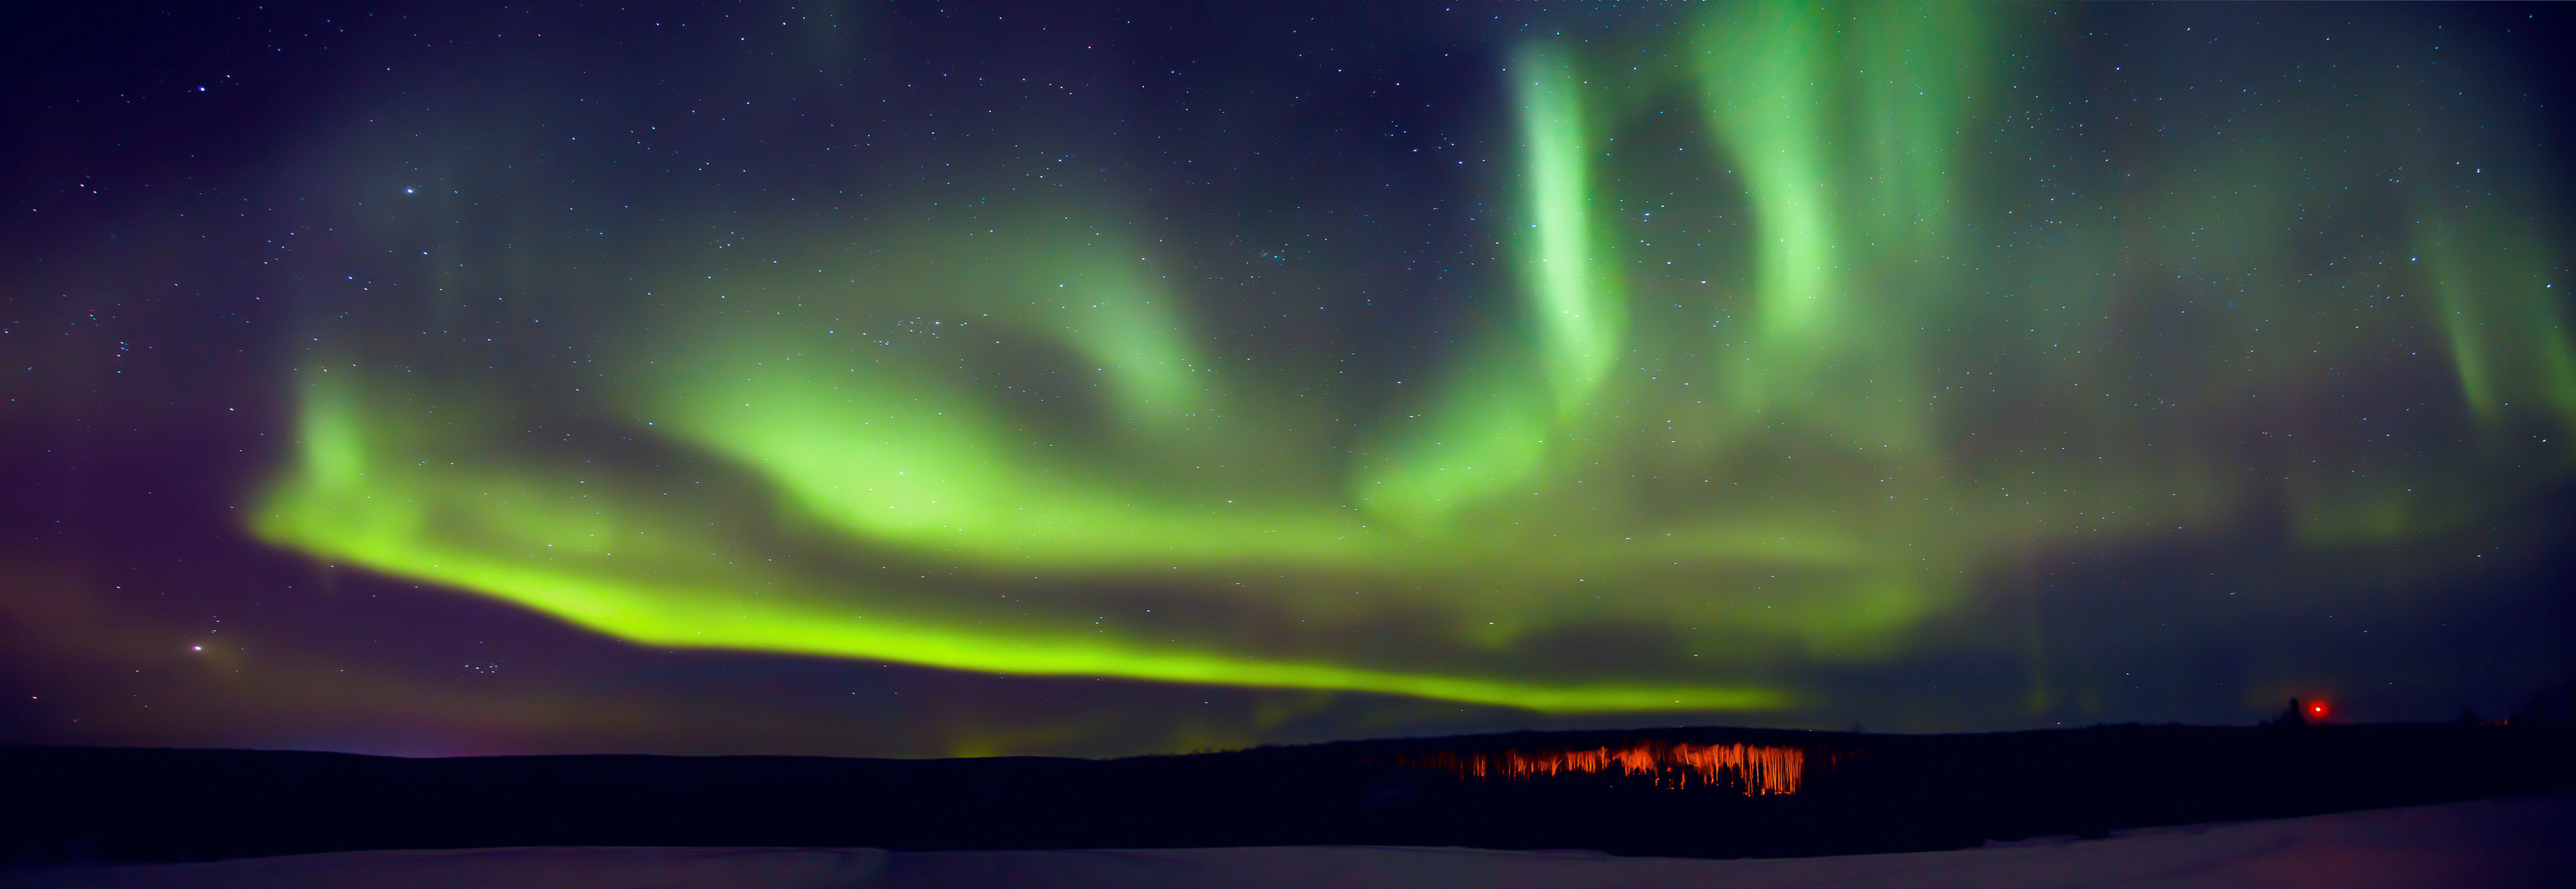
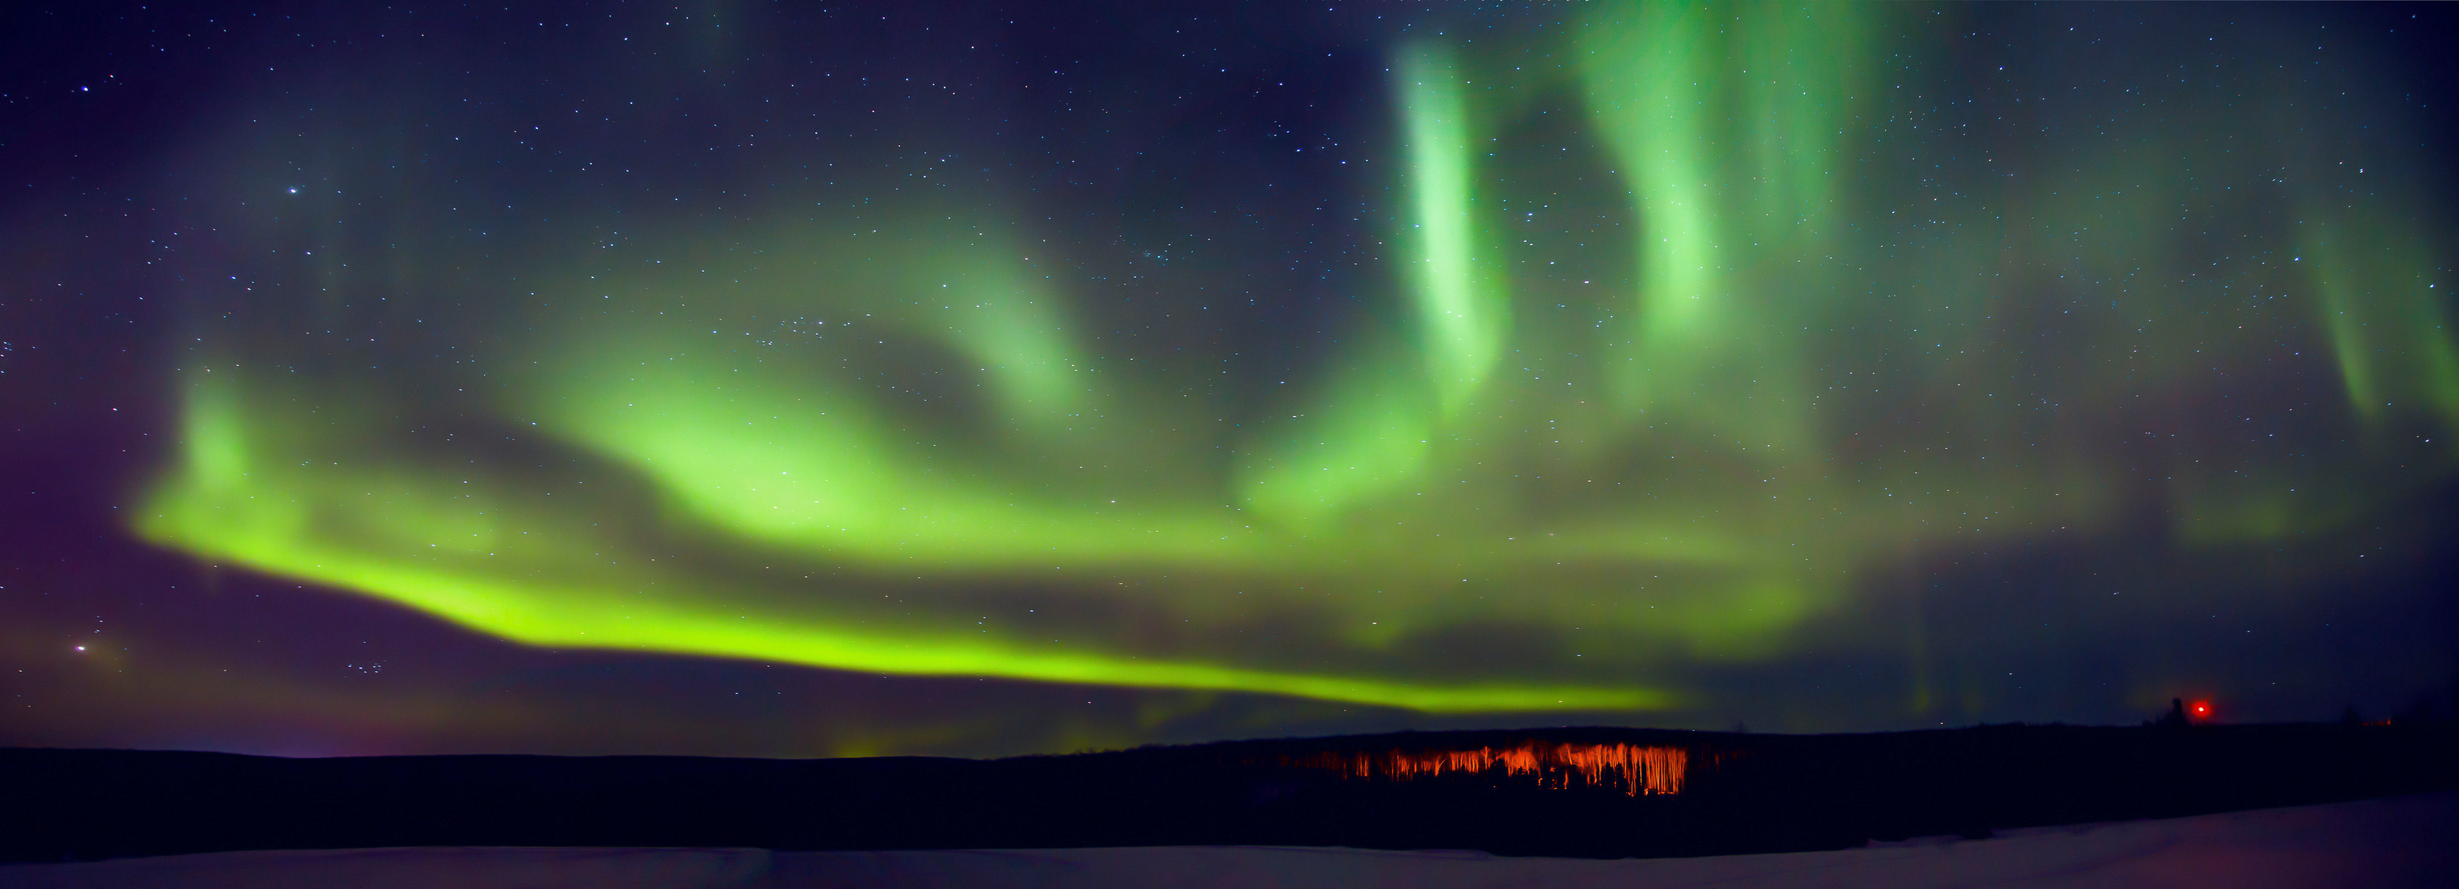
crop pictures

diff --git a/index.html b/index.html
@@ -121,7 +121,8 @@
 
           I am currently a member of IEEE, IEEE Brain Community, IEEE Solid-State Circuits Society, IEEE Circuits and Systems Society, and IEEE Young Professionals. I am a reviewer of IEEE Journal of Solid-State Circuits (JSSC), IEEE Internet of Things Journal (IoT), IEEE Transactions on Biomedical Circuits and Systems (TBCAS), IEEE Transactions on Circuits and Systems I: Regular Papers (TCAS-I), IEEE Transactions on Circuits and Systems II: Express Briefs (TCAS-II) and IEEE Sensors Journal. I am also a technical program committee (TPC) member of multiple international conferences.<br><br>
 
-          If you're interested in my research, please contact me at: xilinliu (at) alumni (dot) upenn (dot) edu <br>
+          If you're interested in my research, please contact me at: xilinliu (at) alumni (dot) upenn (dot) edu <br><br>
+          My wife, <a href="https://www.cs.cmu.edu/~shuruiz/" target="">Shurui Zhou</a>, is a final-year Ph.D. student of software engineering at the <a href="https://www.cmu.edu/" target="">Carnegie Mellon University (CMU)</a>. She is also on the faculty job market this year. <br>
 
           <br>
           <h3 class="mb-3">Education</h3>
@@ -304,13 +305,11 @@ More details to be added. <br>
 <br>
 <h3 id="personal" class="mb-3">Misc</h3>
 
-My wife, <a href="https://www.cs.cmu.edu/~shuruiz/" target="">Shurui Zhou</a>, is a final-year Ph.D. student of software engineering at the <a href="https://www.cmu.edu/" target="">Carnegie Mellon University</a>. She is also on the faculty job market. <br><br>
-
 I've worked with a large group of brilliant people. That's almost all that I need to say. 
 <br>
 <img height="140" ="300" src="img/group-1.JPG" alt="">
 <img height="140" ="300" src="img/group-2.JPG" alt="">
-<img height="140" ="300" src="img/group-3.JPG" alt="">
+<img height="140" ="300" src="img/group-3.jpg" alt="">
 <img height="140" ="300" src="img/group-5.JPG" alt="">
 <img height="140" ="300" src="img/group-6.JPG" alt="">
 <img height="140" ="300" src="img/group-7.JPG" alt="">
@@ -348,8 +347,8 @@ I am also an amateur photographer and I love traveling.
 <img height="140" ="300" src="img/photography-11.JPG" alt="">
 <img height="140" ="300" src="img/photography-12.JPG" alt="">
 <img height="140" ="300" src="img/photography-2.jpg" alt="">
-<img height="140" ="300" src="img/photography-5.jpg" alt="">
 <img height="140" ="300" src="img/photography-13.JPG" alt="">
+<img height="140" ="300" src="img/photography-5.jpg" alt="">
 <br>
 <br>
 
